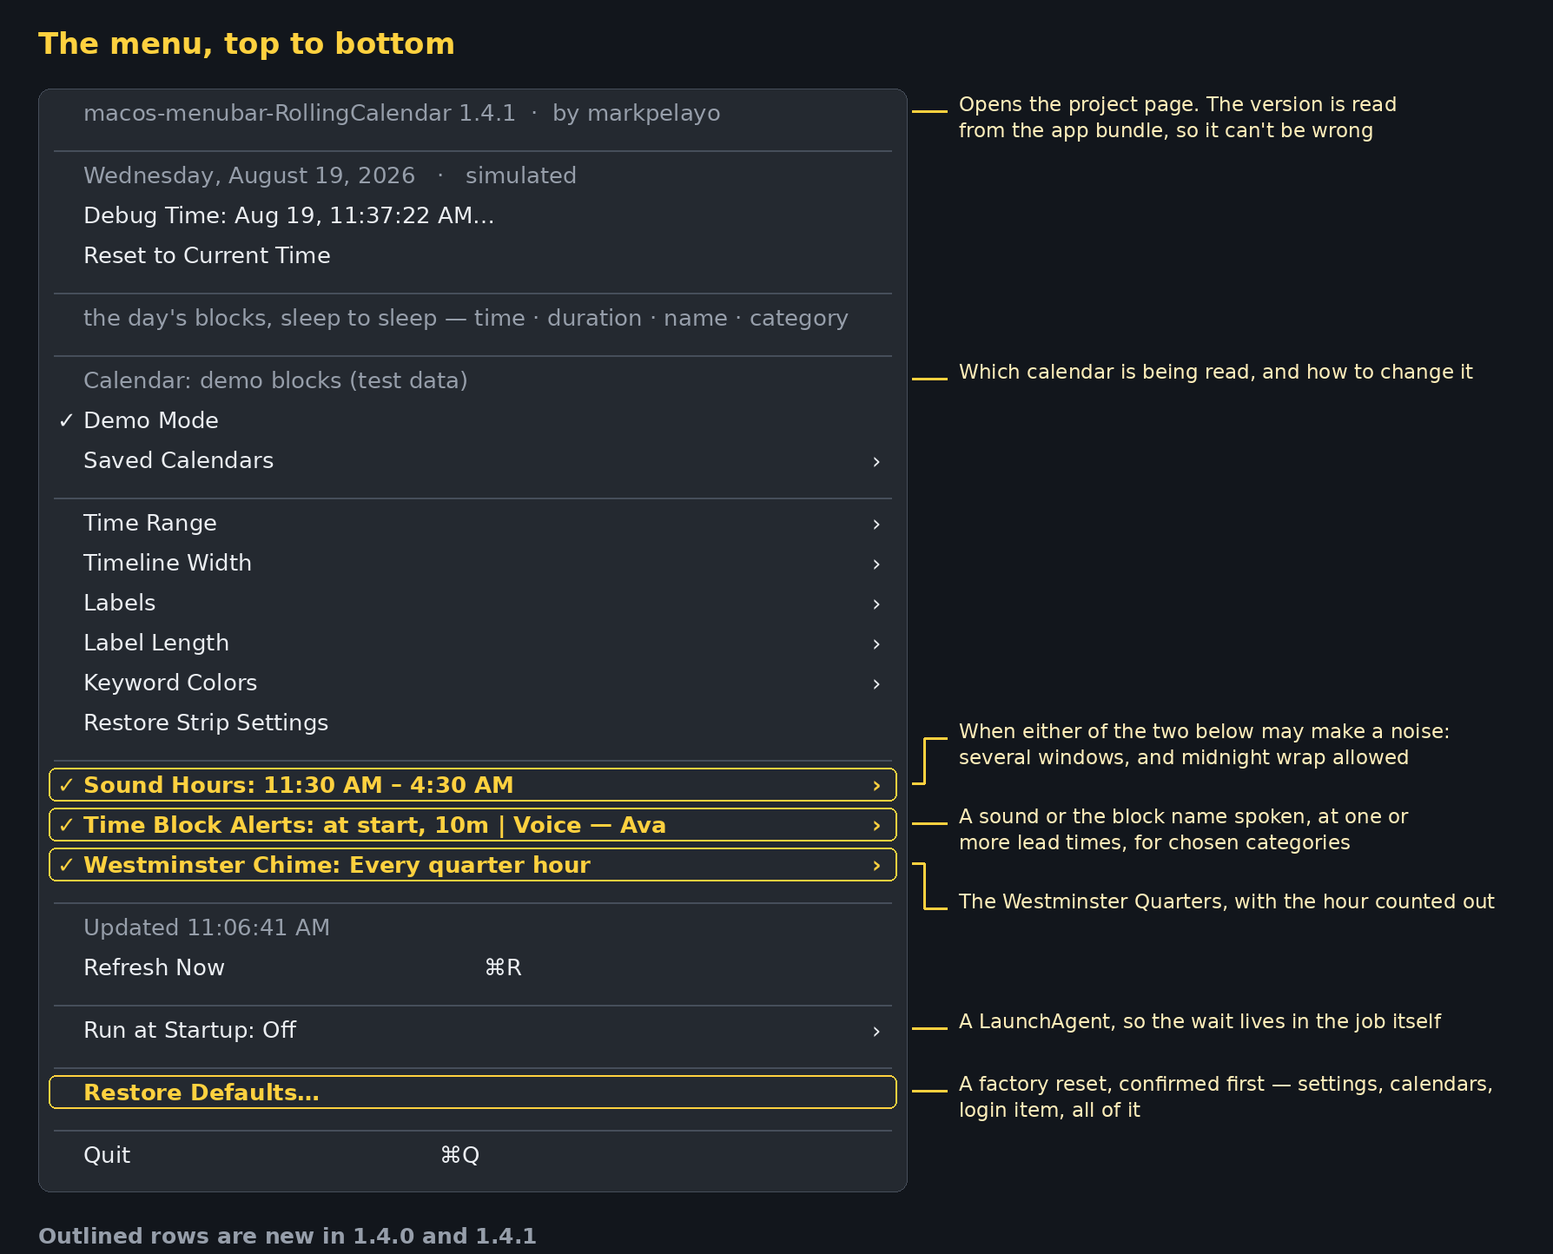
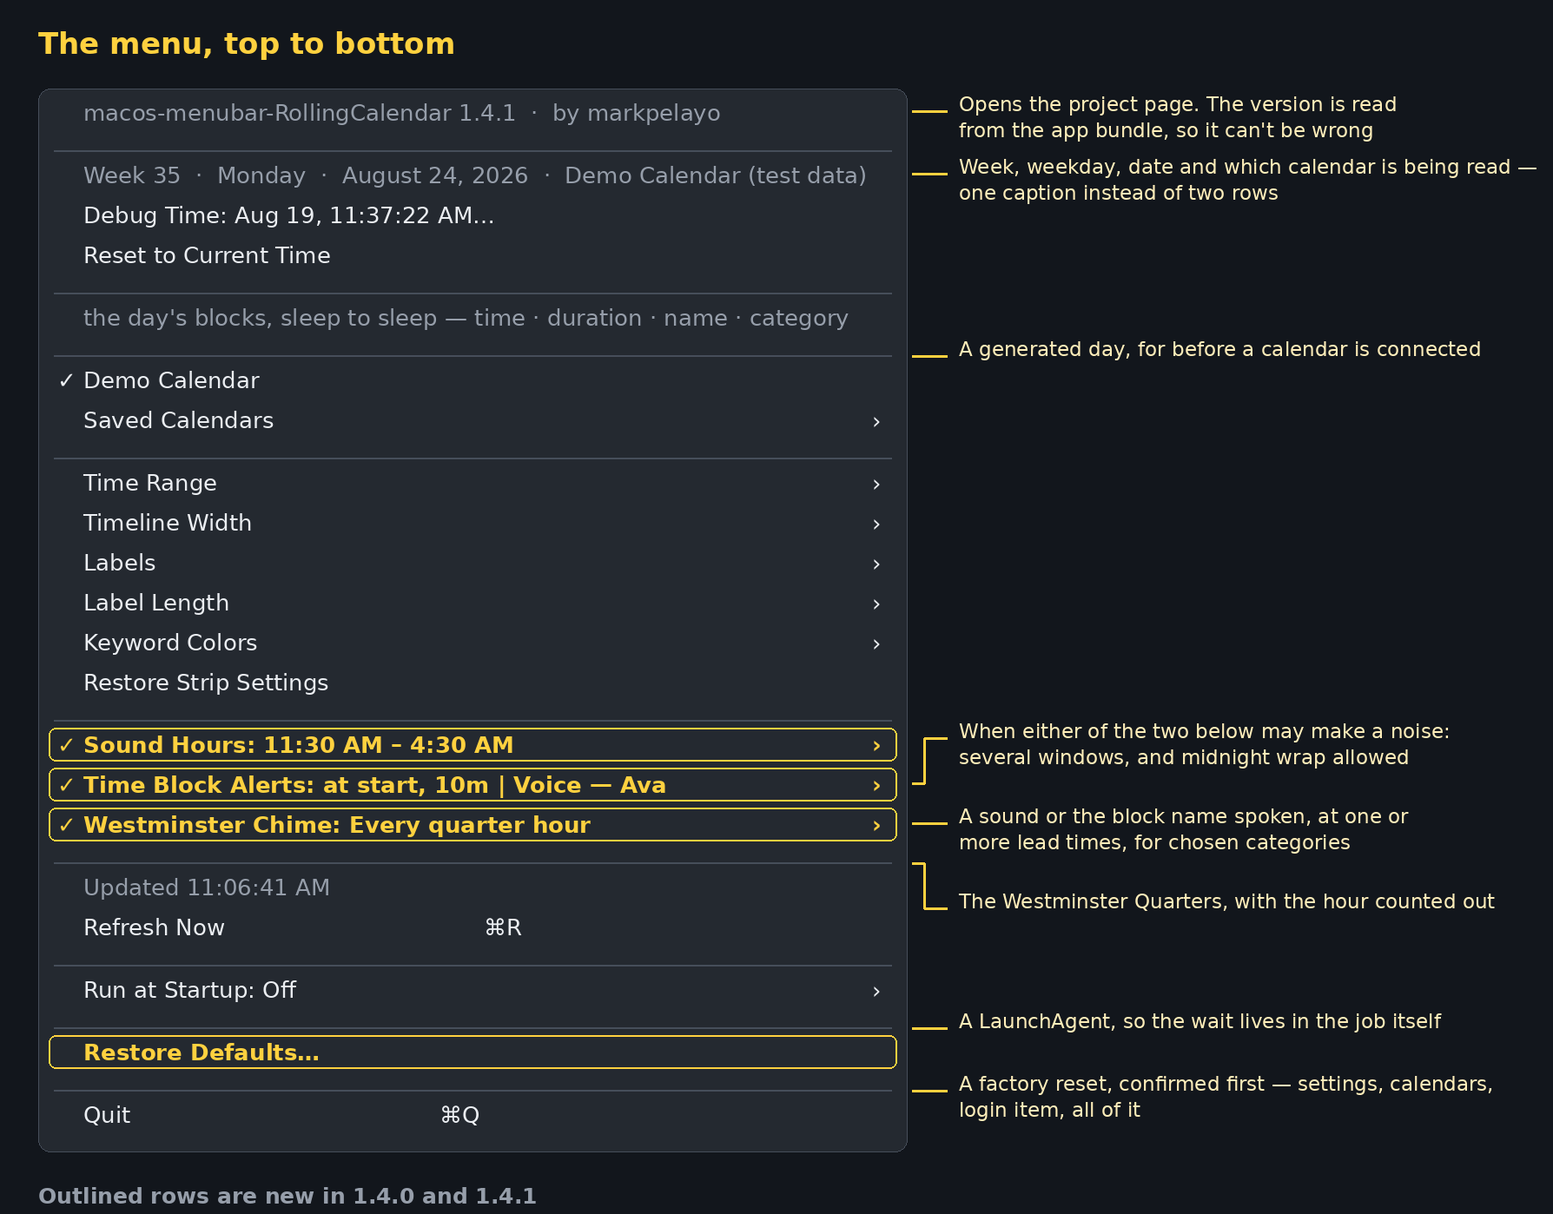
One date caption carrying week, day and source; Demo Mode becomes Demo Calendar

diff --git a/Sources/main.swift b/Sources/main.swift
@@ -337,6 +337,20 @@ enum Config {
         return fresh
     }
 
+    private static var cachedISO: (zone: String, calendar: Calendar)?
+
+    /// Week numbers only. ISO 8601 rather than the locale's own numbering, so
+    /// "Week 35" means the same thing to everyone reading it — that's the whole
+    /// point of quoting a week number.
+    static var iso8601: Calendar {
+        let zone = displayTimeZone
+        if let cachedISO, cachedISO.zone == zone.identifier { return cachedISO.calendar }
+        var fresh = Calendar(identifier: .iso8601)
+        fresh.timeZone = zone
+        cachedISO = (zone.identifier, fresh)
+        return fresh
+    }
+
     /// Stored as an offset rather than an absolute date, so the simulated clock
     /// keeps running instead of standing still.
     static func setDebugTime(_ date: Date) {
@@ -511,7 +525,7 @@ final class AppDelegate: NSObject, NSApplicationDelegate, NSMenuDelegate {
     // MARK: - Fetching
 
     private func fetch() {
-        // Taken here rather than inside the feed path, so switching to Demo Mode
+        // Taken here rather than inside the feed path, so switching to the Demo Calendar
         // or clearing the calendar also invalidates a request already in flight.
         fetchGeneration += 1
         if Config.demoMode {
@@ -688,10 +702,11 @@ final class AppDelegate: NSObject, NSApplicationDelegate, NSMenuDelegate {
         let df = Self.rowFormatter
         df.timeZone = Config.displayTimeZone
 
-        let dayFormatter = Self.dayHeaderFormatter
-        dayFormatter.timeZone = Config.displayTimeZone
-        addInfo(dayFormatter.string(from: Clock.now)
-                    + (Config.isSimulating ? "   ·   simulated" : ""), to: menu)
+        // One caption instead of two rows: week, weekday, date, which calendar
+        // is being read, and — in red, as on the strip — whether the clock is
+        // being simulated.
+        let caption = EventRowView(content: Self.dayCaption(), highlights: false)
+        menu.addItem({ let item = NSMenuItem(); item.view = caption; return item }())
 
         // --- Debug time ---
         if Config.isSimulating {
@@ -752,19 +767,15 @@ final class AppDelegate: NSObject, NSApplicationDelegate, NSMenuDelegate {
 
         menu.addItem(.separator())
 
-        // --- Which source is live ---
-        if Config.demoMode {
-            addInfo("Calendar: demo blocks (test data)", to: menu)
-        } else if let name = Config.calendarDisplayName {
-            addInfo("Calendar: \(name)", to: menu)
-        } else {
-            addInfo("No calendar set up yet", to: menu)
-        }
-
-        // Demo toggle stays reachable in every state.
-        let demoItem = add("Demo Mode", #selector(toggleDemoMode), to: menu)
+        // --- Where the blocks come from ---
+        // No caption here any more: which calendar is live is named in the date
+        // line at the top, which had room for it.
+        //
+        // "Demo Calendar" rather than "Demo Mode", so it can't be mistaken for
+        // the simulated clock — two different kinds of pretending.
+        let demoItem = add("Demo Calendar", #selector(toggleDemoMode), to: menu)
         demoItem.state = Config.demoMode ? .on : .off
-        demoItem.toolTip = "Synthetic 15-minute blocks, to check the strip moves correctly"
+        demoItem.toolTip = "A generated day, so the strip works before any calendar is connected"
 
         if Config.profiles.isEmpty {
             add("Add Calendar…", #selector(addCalendarProfile), to: menu)
@@ -772,7 +783,7 @@ final class AppDelegate: NSObject, NSApplicationDelegate, NSMenuDelegate {
             let saved = NSMenuItem(title: "Saved Calendars", action: nil, keyEquivalent: "")
             saved.submenu = savedCalendarsMenu()
             // Ticked when a saved calendar is what's actually being read, so it
-            // reads as the counterpart to Demo Mode above it.
+            // reads as the counterpart to Demo Calendar above it.
             saved.state = (!Config.demoMode && Config.hasCalendarInput) ? .on : .off
             menu.addItem(saved)
         }
@@ -849,7 +860,7 @@ final class AppDelegate: NSObject, NSApplicationDelegate, NSMenuDelegate {
         let startup = NSMenuItem(title: LoginItem.menuTitle, action: nil, keyEquivalent: "")
         startup.submenu = startupMenu()
         // Ticked whenever it will launch at login, delay or not, so the state
-        // reads at a glance the way Demo Mode and Saved Calendars do.
+        // reads at a glance the way Demo Calendar and Saved Calendars do.
         startup.state = LoginItem.isEnabled ? .on : .off
         menu.addItem(startup)
 
@@ -1521,7 +1532,7 @@ final class AppDelegate: NSObject, NSApplicationDelegate, NSMenuDelegate {
         let sub = NSMenu()
         sub.autoenablesItems = false
 
-        // In Demo Mode the saved calendars aren't being read, so none is ticked.
+        // With the Demo Calendar the saved calendars aren't being read, so none is ticked.
         let active = Config.demoMode ? nil : Config.activeProfileName
         for profile in Config.profiles {
             let row = CalendarRowView(title: profile.name, isActive: profile.name == active)
@@ -1626,9 +1637,11 @@ final class AppDelegate: NSObject, NSApplicationDelegate, NSMenuDelegate {
         f.dateFormat = "hh:mm a"
         return f
     }()
+    /// "August 24, 2026" — no weekday, since the caption names it separately.
+    /// `.long` rather than a format string, so other languages read naturally.
     private static let dayHeaderFormatter: DateFormatter = {
         let f = DateFormatter()
-        f.dateStyle = .full
+        f.dateStyle = .long
         return f
     }()
     private static let debugStampFormatter: DateFormatter = {
@@ -1681,6 +1694,53 @@ final class AppDelegate: NSObject, NSApplicationDelegate, NSMenuDelegate {
             view.needsDisplay = true
         }
     }
+
+    /// "Week 35 · Monday · August 24, 2026 · Demo Calendar (test data)", plus a
+    /// red simulation marker when the clock has been moved.
+    ///
+    /// Lighter than the rows below it — it's a caption, and the day's blocks are
+    /// what you came to read.
+    private static func dayCaption() -> NSAttributedString {
+        let now = Clock.now
+        let calendar = Config.iso8601
+        let week = calendar.component(.weekOfYear, from: now)
+
+        let weekday = dayNameFormatter
+        weekday.timeZone = Config.displayTimeZone
+        let date = dayHeaderFormatter
+        date.timeZone = Config.displayTimeZone
+
+        let source: String
+        if Config.demoMode {
+            source = "Demo Calendar (test data)"
+        } else if let name = Config.calendarDisplayName {
+            source = name
+        } else {
+            source = "No calendar yet"
+        }
+
+        let font = NSFont.menuFont(ofSize: NSFont.smallSystemFontSize)
+        let text = NSMutableAttributedString(
+            string: "Week \(week)  ·  \(weekday.string(from: now))  ·  "
+                  + "\(date.string(from: now))  ·  \(source)",
+            attributes: [.font: font, .foregroundColor: NSColor.tertiaryLabelColor])
+
+        if Config.isSimulating {
+            text.append(NSAttributedString(
+                string: "  ·  ❗Simulated❗",
+                attributes: [.font: NSFontManager.shared.convert(font, toHaveTrait: .boldFontMask),
+                             .foregroundColor: NSColor.systemRed]))
+        }
+        return text
+    }
+
+    /// Just the weekday, since the full date formatter spells out both and the
+    /// caption wants them separated by a divider.
+    private static let dayNameFormatter: DateFormatter = {
+        let f = DateFormatter()
+        f.dateFormat = "EEEE"
+        return f
+    }()
 
     /// A dim, unclickable line of explanation at the foot of a submenu.
     private func addNote(_ text: String, to menu: NSMenu) {
@@ -1851,7 +1911,7 @@ final class AppDelegate: NSObject, NSApplicationDelegate, NSMenuDelegate {
         •  Sounds: alerts and chime off, Sound Hours 11:30 AM – 4:30 AM
         •  Run at Startup: off, and the login item removed
         •  Debug Time: cleared
-        •  \(calendars): removed, leaving Demo Mode
+        •  \(calendars): removed, leaving the Demo Calendar
 
         Your calendars themselves are untouched — only the links saved here are         forgotten. This can't be undone.
         """

diff --git a/Sources/EventRowView.swift b/Sources/EventRowView.swift
@@ -25,6 +25,9 @@ import AppKit
 final class EventRowView: NSView {
 
     private let content: NSAttributedString
+    /// A caption — the date line — is read, not tracked along, so it takes the
+    /// same click-swallowing treatment without the highlighter.
+    private let highlights: Bool
     /// Measured once at build time — sixty rows redrawing on every hover is not
     /// the place to re-measure text.
     private let contentSize: NSSize
@@ -43,8 +46,9 @@ final class EventRowView: NSView {
         return NSSize(width: ceil(bounds.width), height: ceil(bounds.height))
     }
 
-    init(content: NSAttributedString) {
+    init(content: NSAttributedString, highlights: Bool = true) {
         self.content = content
+        self.highlights = highlights
         let size = Self.measure(content)
         self.contentSize = size
         super.init(frame: NSRect(x: 0, y: 0,
@@ -90,7 +94,7 @@ final class EventRowView: NSView {
     }
 
     override func draw(_ dirtyRect: NSRect) {
-        if isHovered {
+        if isHovered, highlights {
             highlightColour.setFill()
             NSBezierPath(roundedRect: bounds.insetBy(dx: 5, dy: 0),
                          xRadius: 4, yRadius: 4).fill()

diff --git a/Sources/CalendarRowView.swift b/Sources/CalendarRowView.swift
@@ -118,7 +118,7 @@ final class CalendarRowView: NSView {
         let font = NSFont.menuFont(ofSize: 0)
 
         // A checkmark, matching every other selected item in the menu. Only the
-        // calendar actually being read gets one — in Demo Mode nothing is.
+        // calendar actually being read gets one — with the Demo Calendar nothing is.
         if isActive {
             let tick = NSAttributedString(string: "✓", attributes: [
                 .font: NSFont.menuFont(ofSize: 0), .foregroundColor: ink

diff --git a/README.md b/README.md
@@ -35,7 +35,17 @@ macos-menubar-RollingCalendar 1.4.1  ·  by markpelayo
 
 The screenshots below are of the real menu, and cover it in four parts. They predate the project row, **Sound Hours**, **Time Block Alerts**, **Westminster Chime** and **Run at Startup** — the map above is the current order.
 
-### 1 · Date and Debug Time
+### 1 · The date line
+
+The day, the week and the source in one caption, lighter and smaller than the rows beneath it — it's context, and the blocks are what you came to read:
+
+```
+Week 35  ·  Monday  ·  August 24, 2026  ·  Demo Calendar (test data)  ·  ❗Simulated❗
+```
+
+The week number is **ISO 8601**, so "Week 35" means the same thing to anyone reading it rather than depending on where they live. The last part names whichever calendar is being read — a saved calendar by name, or the Demo Calendar — which is why there's no longer a separate *Calendar:* row. The red **❗Simulated❗** appears only when Debug Time has moved the clock, matching the marker on the strip.
+
+### 2 · Date and Debug Time
 
 ![The date row, Debug Time and Reset to Current Time](docs/ui-menu-header.png)
 
@@ -53,7 +63,7 @@ The screenshots below are of the real menu, and cover it in four parts. They pre
 
 This block sits between the day's blocks and the strip settings: the list above it is what the calendar produced, and the settings below it are how that list is drawn.
 
-![The calendar section: current source, Demo Mode and Saved Calendars](docs/ui-menu-source.png)
+![The calendar section: current source, Demo Calendar and Saved Calendars](docs/ui-menu-source.png)
 
 ## Quick start
 
@@ -67,7 +77,7 @@ open build/RollingCalendar.app
 
 Needs macOS 13+ and Xcode Command Line Tools (`xcode-select --install`) for `swiftc`. No packages, no dependencies, no Xcode project — two shell scripts and fourteen Swift files.
 
-**It starts in Demo Mode**, showing a realistic time-blocked day, so you can see it working before connecting anything. Click the strip → **Demo Mode** to turn that off once you've set up a real calendar.
+**It starts in Demo Calendar**, showing a realistic time-blocked day, so you can see it working before connecting anything. Click the strip → **Demo Calendar** to turn that off once you've set up a real calendar.
 
 To keep it: `cp -R build/RollingCalendar.app /Applications/`. To start it at login: **System Settings → General → Login Items → +**, then pick RollingCalendar.
 
@@ -97,7 +107,7 @@ Saved Calendars ▸
       Add Calendar…
 ```
 
-A tick marks the calendar actually being read — nothing is ticked in Demo Mode, and **Saved Calendars** itself is ticked whenever a saved calendar is live. Click a row to switch to it. The **pencil** renames it, the **✕** removes it after a confirmation that spells out what happens — whether it's the one in use, or your last one. Only the saved link is ever forgotten; your actual calendar is untouched.
+A tick marks the calendar actually being read — nothing is ticked in Demo Calendar, and **Saved Calendars** itself is ticked whenever a saved calendar is live. Click a row to switch to it. The **pencil** renames it, the **✕** removes it after a confirmation that spells out what happens — whether it's the one in use, or your last one. Only the saved link is ever forgotten; your actual calendar is untouched.
 
 Before the first calendar is saved there is no submenu to open — the menu shows a plain **Add Calendar…** instead, and *Saved Calendars ▸* appears once you have one.
 
@@ -257,7 +267,7 @@ The offset survives a relaunch, which is what you want mid-testing. If the strip
 
 ## Testing without a calendar
 
-**Demo Mode** (strip → *Demo Mode*) generates a plausible day in-app: sleep, focus blocks, meals, a nap, an evening shift that runs past midnight, and two deliberate collisions — a double-booked call at 15:00, and a stretch at 16:15 where an interview and a standup both land inside a focus block, so the 🔴 badges have something to report.
+**Demo Calendar** (strip → *Demo Calendar*) generates a plausible day in-app: sleep, focus blocks, meals, a nap, an evening shift that runs past midnight, and two deliberate collisions — a double-booked call at 15:00, and a stretch at 16:15 where an interview and a standup both land inside a focus block, so the 🔴 badges have something to report.
 
 It supplies only what a calendar would — **times and names, never colours**. Colour comes from the same [keyword rules](#keyword-colors) as a real feed, so **Clear Keyword Colors** turns the demo grey exactly as it would turn your calendar grey. On a first launch the sample rules are applied once, so it looks configured out of the box.
 
@@ -421,12 +431,12 @@ Restore everything to defaults?
   •  Sounds: alerts and chime off, Sound Hours 11:30 AM – 4:30 AM
   •  Run at Startup: off, and the login item removed
   •  Debug Time: cleared
-  •  2 saved calendars: removed, leaving Demo Mode
+  •  2 saved calendars: removed, leaving Demo Calendar
 ```
 
 It removes the whole preference domain rather than a list of keys, so a setting added in some later version can't be left behind by an out-of-date list, and it deletes the LaunchAgent explicitly — that's a file rather than a preference, and would otherwise go on launching an app that has forgotten it asked. **Cancel is the default button**, since Return should not be the fast path to a wipe.
 
-**Your calendars themselves are untouched.** Only the links saved here are forgotten; nothing is ever written to a calendar. You'll be back in Demo Mode, exactly as on a first launch.
+**Your calendars themselves are untouched.** Only the links saved here are forgotten; nothing is ever written to a calendar. You'll be back in Demo Calendar, exactly as on a first launch.
 
 ## Run at Startup
 
@@ -478,7 +488,7 @@ Most of it is in the menu — click the strip:
 | **Label Length ▸** | How long an event name may get before it's shortened: 100 pt to 480 pt, each annotated with the character count it works out to (default 360 pt, about 47 characters) |
 | **Keyword Colors ▸** | Import a CSV of keyword → colour rules, load the bundled sample, save it out to edit, or clear it |
 | **Restore Strip Settings** | The strip only: back to ±1 hour, 250 pt timeline, 360 pt labels, all labels on. Greyed out when nothing has been changed |
-| **Demo Mode** | A generated day, so the strip works before any calendar is connected |
+| **Demo Calendar** | A generated day, so the strip works before any calendar is connected |
 | **Saved Calendars ▸** | Public feeds kept as named profiles: switch, rename, remove |
 | **Sound Hours ▸** | The hours in which the alerts and the chime may sound — several windows, midnight wrap allowed (default 11:30 AM – 4:30 AM) |
 | **Time Block Alerts ▸** | A sound or the block name spoken, as a block starts or at one or more lead times before it, for the categories you choose (**off** by default) |
@@ -487,7 +497,7 @@ Most of it is in the menu — click the strip:
 | **Run at Startup ▸** | Off, on, or on after a wait of 5–60 s (**off** by default) |
 | **Debug Time… / Reset to Current Time** | Move the whole app to another moment, and back — see [Debug Time](#debug-time) |
 | **Updated hh:mm:ss** | When the feed was last read successfully |
-| **Restore Defaults…** | A factory reset, confirmed first: every setting forgotten, saved calendars removed, back to Demo Mode |
+| **Restore Defaults…** | A factory reset, confirmed first: every setting forgotten, saved calendars removed, back to Demo Calendar |
 | **Quit (⌘Q)** | Leaves nothing behind: no helper, and no login item unless you added one |
 
 The first row of the menu — `macos-menubar-RollingCalendar 1.4.1 · by markpelayo` — opens the [project page](https://github.com/markpelayo/macos-menubar-RollingCalendar). The version is read from the app bundle, so it always names the build you're running.
@@ -548,7 +558,7 @@ Four days are loaded — yesterday through the day after tomorrow — so the sle
 | `Sources/ToggleRowView.swift` | Menu rows that toggle without dismissing the menu |
 | `Sources/ProjectRowView.swift` | The dim, clickable first row that opens the project page |
 | `Sources/EventRowView.swift` | A day-list row: highlights on hover, ignores the click |
-| `Sources/DemoData.swift` | A realistic time-blocked day for Demo Mode, overlaps included |
+| `Sources/DemoData.swift` | A realistic time-blocked day for Demo Calendar, overlaps included |
 | `build.sh` | Compiles and packages the `.app` (LSUIElement, ad-hoc signed) |
 | `examples/` | Importable 15-minute test calendars |
 | `docs/` | UI diagrams and screenshots |

diff --git a/CHANGELOG.md b/CHANGELOG.md
@@ -8,13 +8,21 @@ All notable changes to this project are documented here. The format follows
 
 ### Added
 
+- **One date line instead of two rows.** The date header now reads
+  `Week 35 · Monday · August 24, 2026 · Demo Calendar (test data)`, with a red **❗Simulated❗** on the
+  end when Debug Time has moved the clock — the same marker the strip uses. It's lighter and smaller
+  than the rows below, since it's context rather than content, and it absorbs the old separate
+  *Calendar:* caption, saving a line.
+- The week number is **ISO 8601**, so it means the same thing regardless of locale.
+- **"Demo Mode" is now "Demo Calendar"**, so it can't be confused with the simulated clock — two
+  different kinds of pretending, and only one of them is about the calendar.
 - **"When it starts"** joins the lead times: an alert as the block begins rather than ahead of it,
   saying *"Focus Work, starting now"*. The row above it is now **Alert Me** rather than *Alert Me
   Before*, which that option would have contradicted.
 - **Time Block Alerts says "Off"** in its own title when nothing is set, matching the Westminster
   Chime row rather than going quiet about it.
 - **Restore Defaults…**, in its own block above Quit. A factory reset: every setting forgotten, the
-  LaunchAgent deleted, saved calendars removed and Demo Mode restored, exactly as on a first launch.
+  LaunchAgent deleted, saved calendars removed and Demo Calendar restored, exactly as on a first launch.
   It confirms first, itemising what will go, with **Cancel** as the default button — Return shouldn't
   be the fast path to a wipe. It clears the whole preference domain rather than a list of keys, so a
   setting added later can't be left behind. The strip-only reset is renamed **Restore Strip Settings**, so each name
@@ -263,7 +271,7 @@ First public release.
 - **Saved Calendars** — public iCalendar feeds kept as named profiles you can switch between,
   rename, or remove. Embed links, `newembed` links, `.ics` URLs, secret addresses, `webcal://`, a
   bare calendar address and `file://` paths are all accepted and normalised to a feed URL.
-- **Demo Mode** — a realistic time-blocked day generated in the app, including deliberate overlaps,
+- **Demo Calendar** — a realistic time-blocked day generated in the app, including deliberate overlaps,
   so the strip works before any calendar is connected. It supplies times and names only; colour
   still comes from your keyword rules.
 - **Debug Time** — move the whole app to any moment to see how a given hour will look. The header

diff --git a/examples/README.md b/examples/README.md
@@ -37,7 +37,7 @@ Google's "Oops, we couldn't import this file" is generic and tells you nothing. 
 5. Check the download didn't land as `.ics.txt`
 6. Wait and retry; the error is sometimes genuinely transient
 
-Or skip importing entirely: **Demo Mode** generates the same grid inside the app, and **Add Calendar…** accepts `file:///absolute/path/to/15min-blocks-recurring.ics` to read a local file directly — no publishing, no waiting on Google's feed cache.
+Or skip importing entirely: **Demo Calendar** generates the same grid inside the app, and **Add Calendar…** accepts `file:///absolute/path/to/15min-blocks-recurring.ics` to read a local file directly — no publishing, no waiting on Google's feed cache.
 
 ## Colour
 
